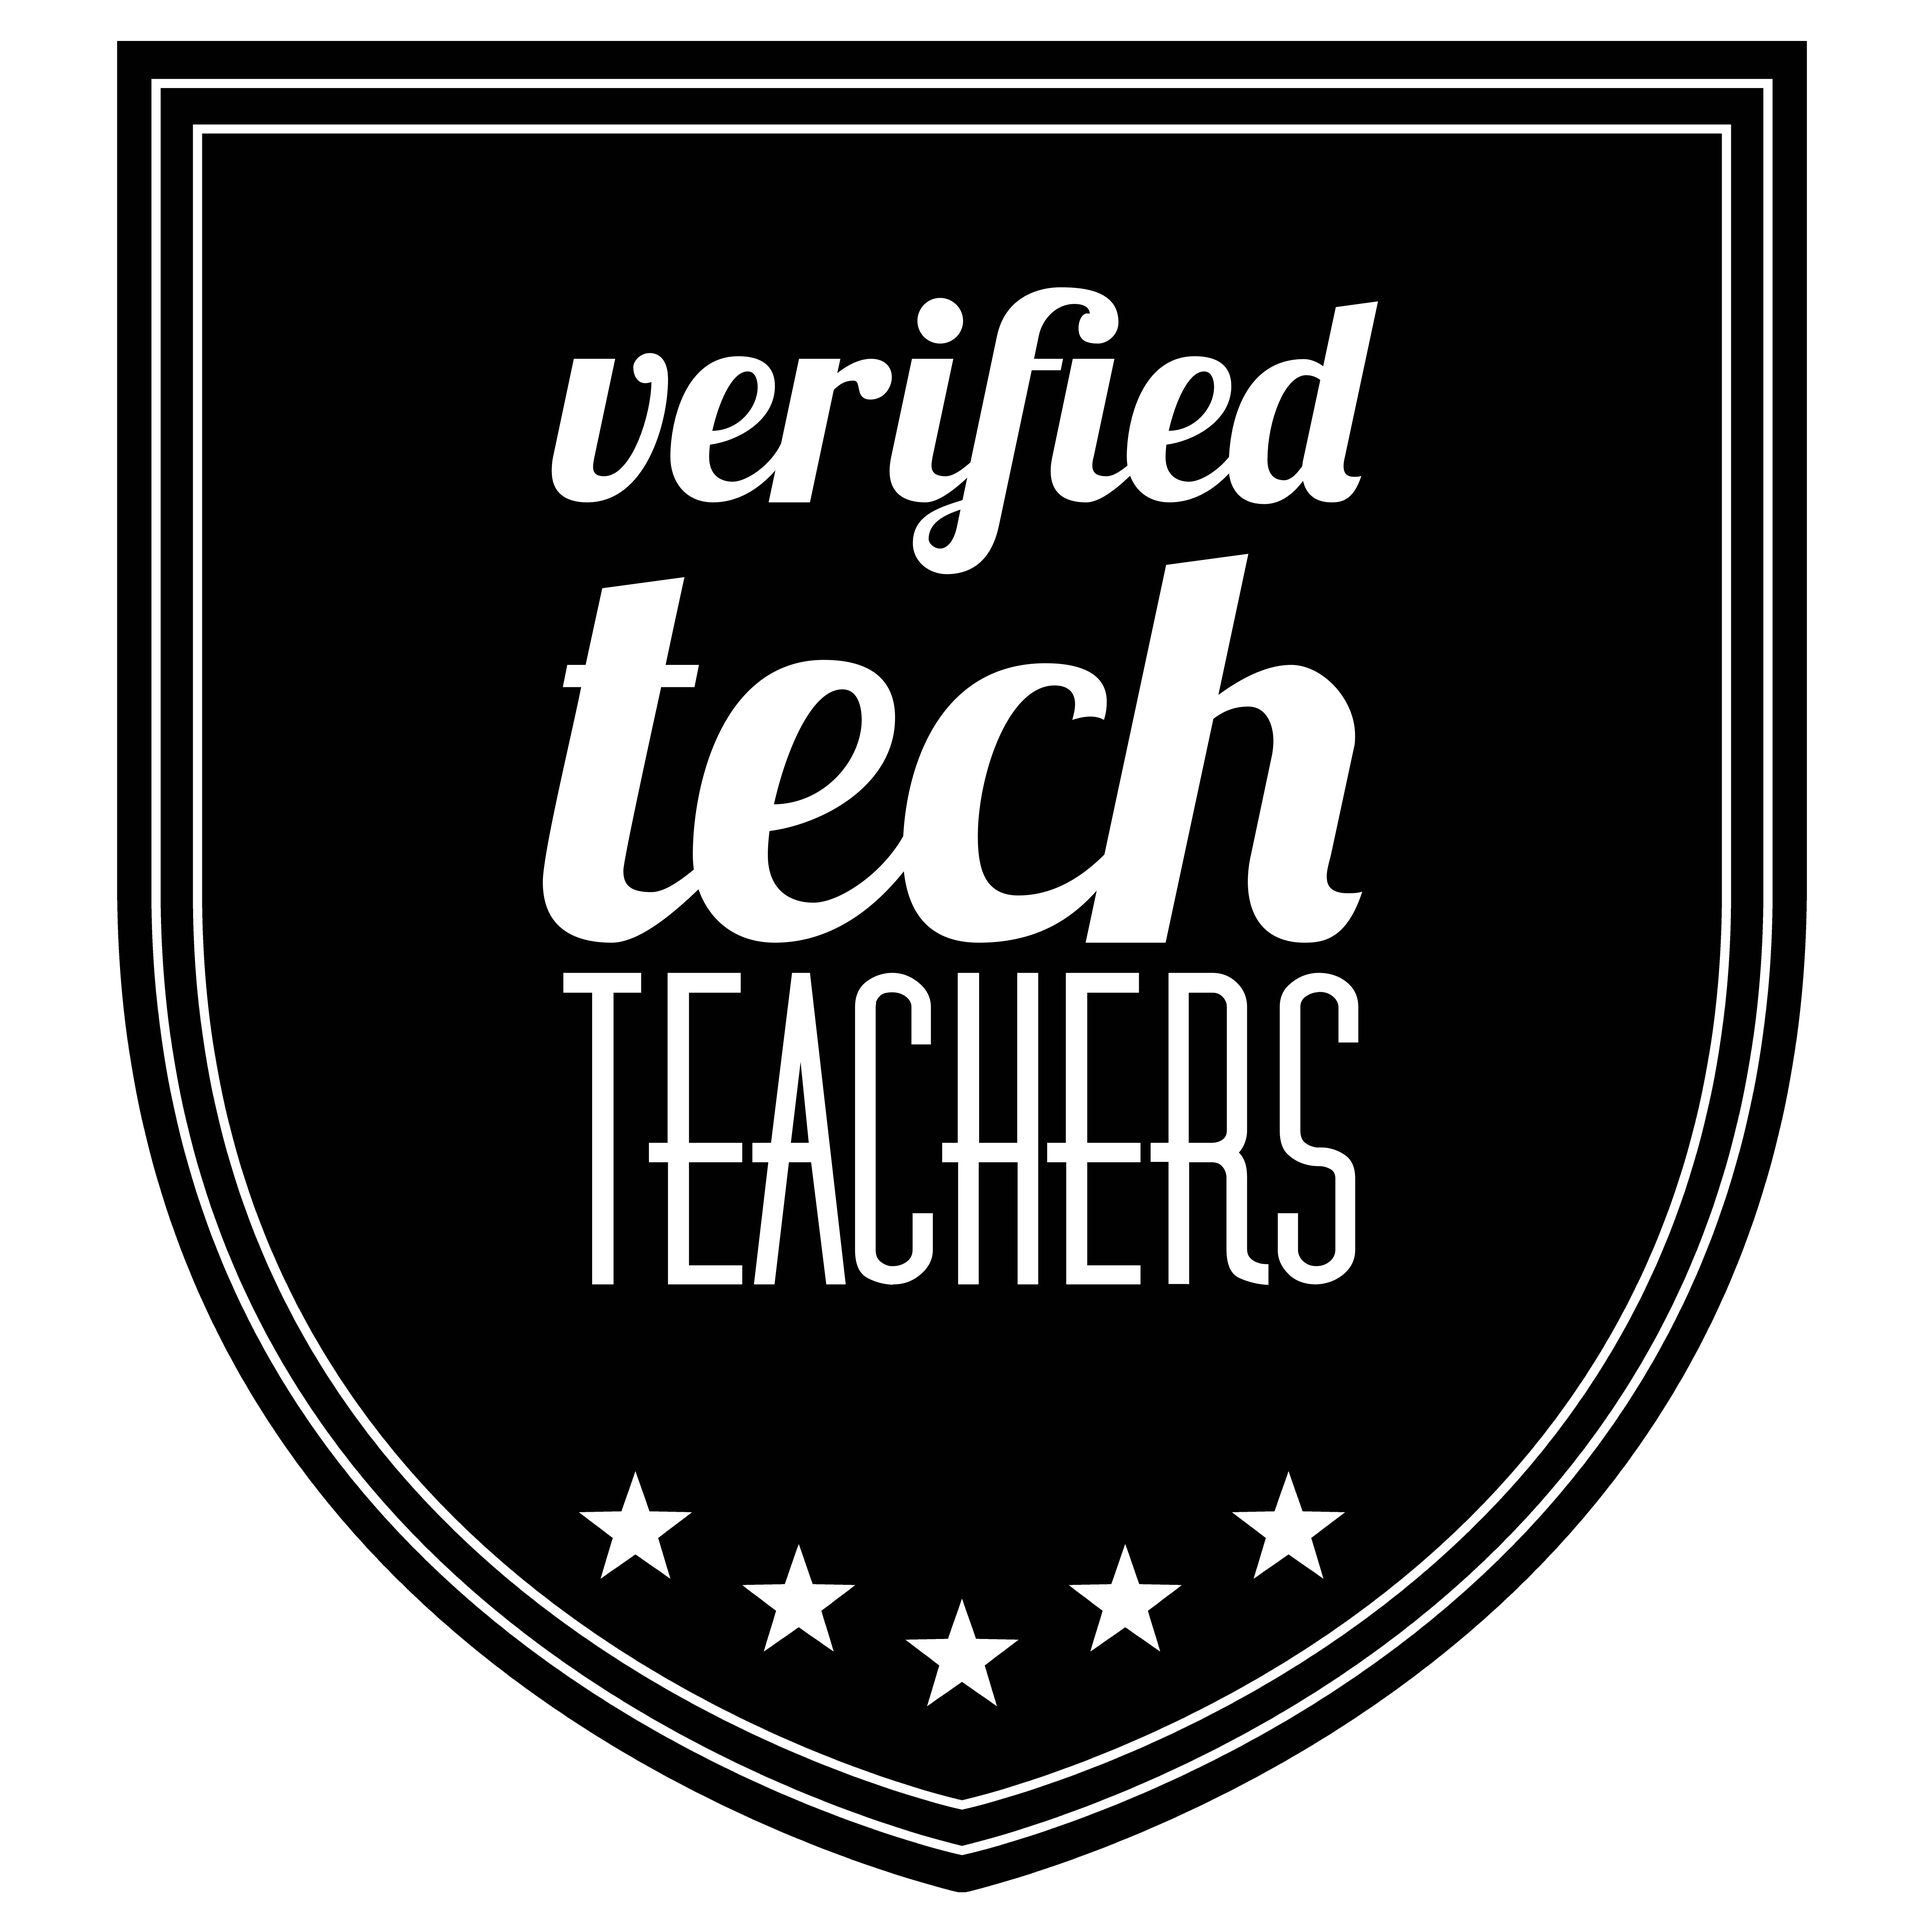
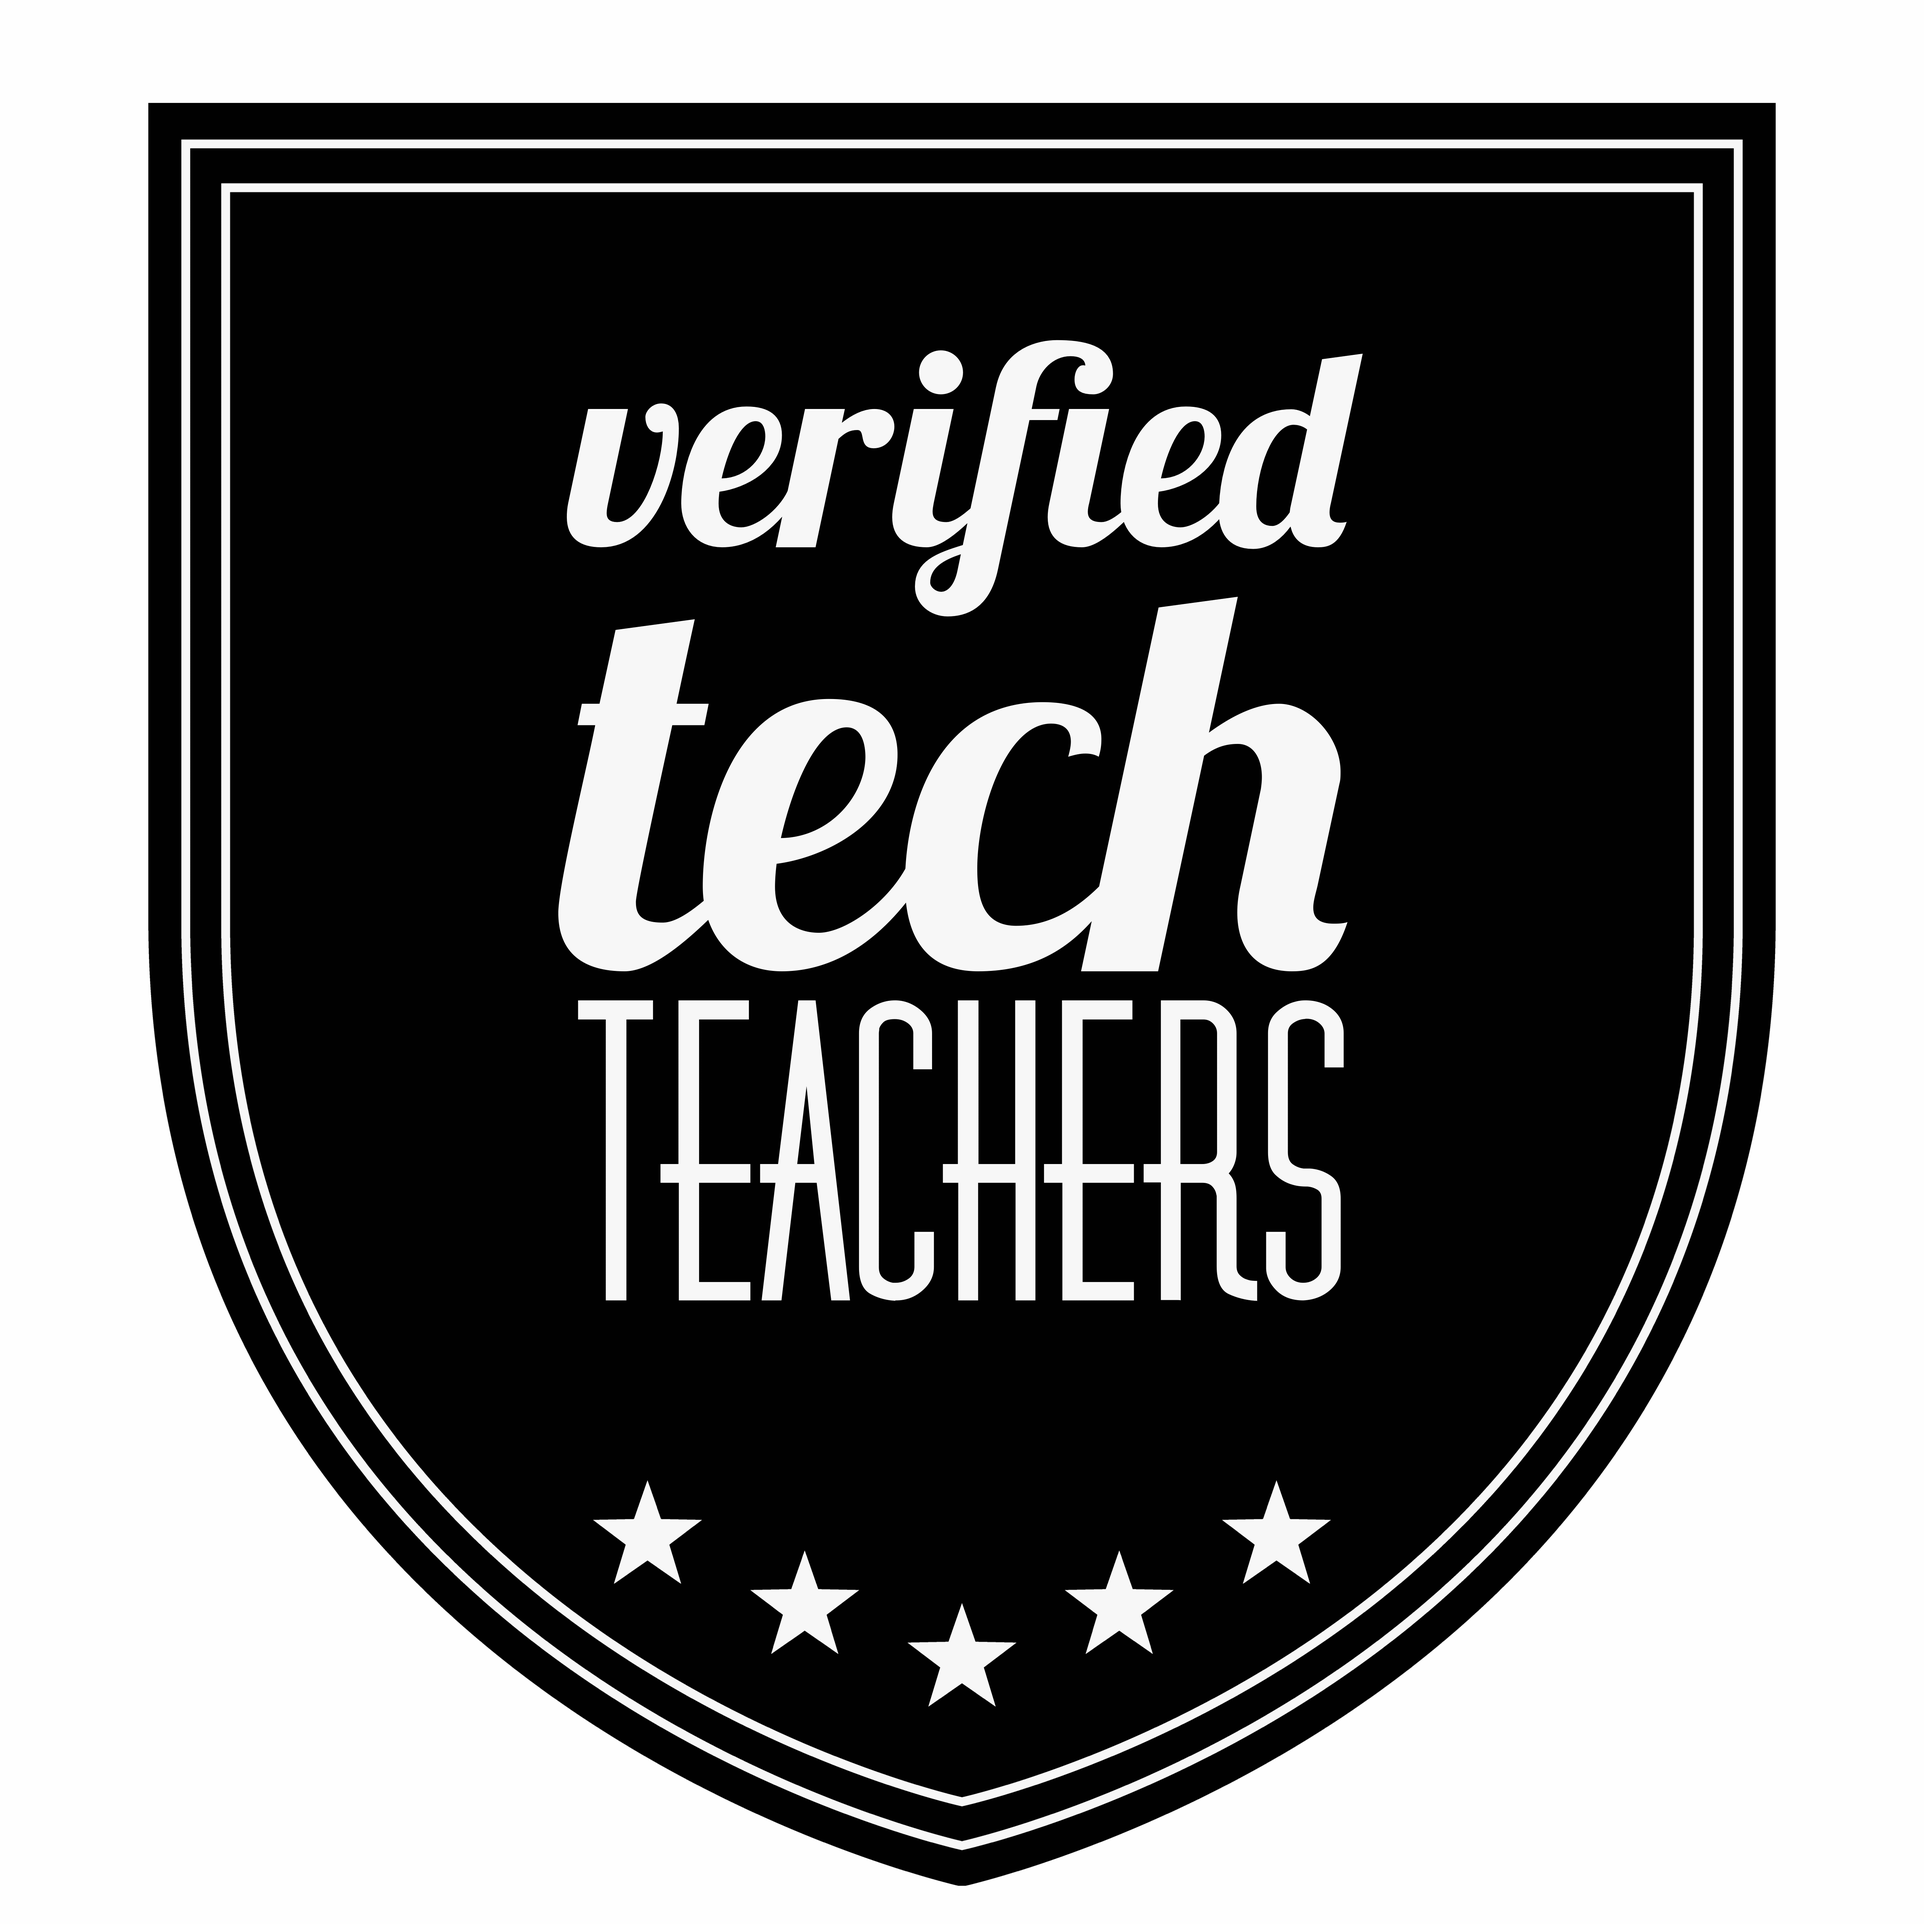
updates

diff --git a/style/style.css b/style/style.css
@@ -2,7 +2,7 @@
     box-sizing: border-box;
 }
 html {
-    background-color: white;
+    background-color: #c6c6c6;
     color: black;
 }
 body {
@@ -16,6 +16,12 @@ body {
     min-height: 100vh;
     padding: 0;
 }
+/* @media (min-width: 48em) {
+    body {
+        background: url('../public/assets/images/bg-particles.png') no-repeat center center fixed;
+        background-size: cover;
+    }
+} */
 header {
     display: flex;
     justify-content: center;
@@ -31,12 +37,15 @@ h1 {
 main {
     flex: 1;
     width: 100%;
+    display: flex;
+    justify-content: center;
+    align-items: center;
 }
 img.logo {
     display: block;
-    height: 300px;
-    margin: 0 auto;
-    width: 300px;
+    height: 600px;
+    margin: auto;
+    width: 600px;
 }
 .intro {
     display: flex;

diff --git a/index.html b/index.html
@@ -9,13 +9,7 @@
 </head>
 <body>
   <main>
-    <p class="intro">
-        We need a better way to identify quality tech teachers and content creators.
-        This project aims to be that resource.
-        Stay tuned!
-    </p>
     <img src="public/assets/images/verified-tech-teachers.png" alt="" class="logo">
-    
   </main>
   <footer>
     <p><small><a href="https://github.com/verified-tech-teachers/vtt-website">GitHub Repo</a></small></p>
